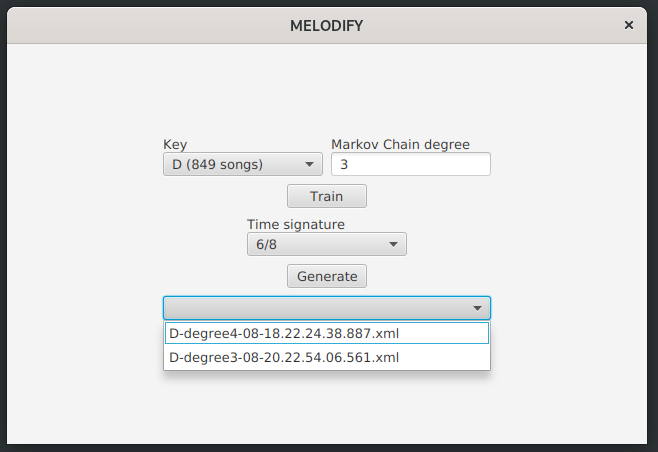
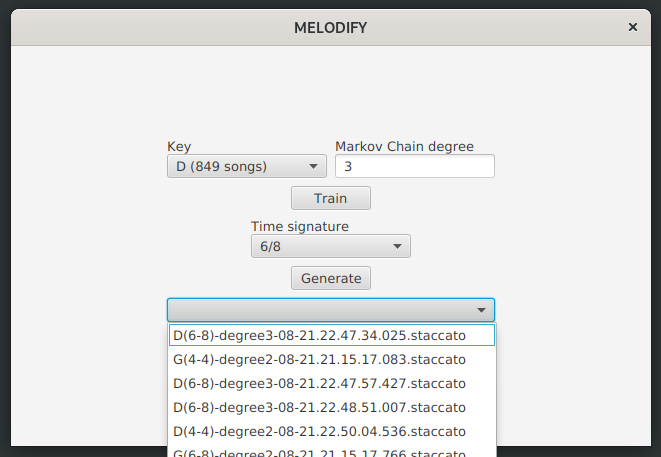
add test coverage, fix findings based on pitest

Changed region(s): [[0.0, 0.0, 1.0, 1.0], [0.2432, 0.3097, 0.4255, 0.4027]]

diff --git a/melodify/src/test/java/org/juhanir/services/GeneratorServiceTest.java b/melodify/src/test/java/org/juhanir/services/GeneratorServiceTest.java
@@ -147,9 +147,12 @@ public class GeneratorServiceTest {
       if (i < 12) {
         testTrie.insert(new int[] { i, 6 });
       }
-      // add every other note three times in the last octave
+      // add every even note three times in the last octave
       if (i >= Constants.NOTE_ARRAY_SIZE - 12 && i % 2 == 0) {
         testTrie.insert(new int[] { i, 6 });
+        testTrie.insert(new int[] { i, 6 });
+      } else if (i >= Constants.NOTE_ARRAY_SIZE - 12 && i % 2 != 0) {
+        // and every odd twice, should not override the first octave selection
         testTrie.insert(new int[] { i, 6 });
       }
     }
@@ -186,6 +189,47 @@ public class GeneratorServiceTest {
     assertEquals(Constants.NOTE_ARRAY_SIZE - 2, generator.getBaseNoteOfKey("A#m"));
     assertEquals(Constants.NOTE_ARRAY_SIZE - 2, generator.getBaseNoteOfKey("Bb"));
     assertEquals(Constants.NOTE_ARRAY_SIZE - 2, generator.getBaseNoteOfKey("Bbm"));
+  }
+
+  @Test
+  void toStaccatoStringGeneratesCorrectlyFourFour() {
+    Trie trie = new Trie();
+    GeneratorService generator = new GeneratorService(trie, new Random());
+    int[] melody = new int[] { 1, 2, 3, 4 };
+    String res = generator.toStaccatoString(melody, "4/4");
+    String expected = String.format("T%s TIME:4/4 25q 26q 27q 28q", Constants.PLAYBACK_TEMPO);
+    assertEquals(expected, res);
+  }
+
+  @Test
+  void toStaccatoStringGeneratesCorrectlySixEighths() {
+    Trie trie = new Trie();
+    GeneratorService generator = new GeneratorService(trie, new Random());
+    int[] melody = new int[] { 1, 2, 3, 4 };
+    String res = generator.toStaccatoString(melody, "6/8");
+    String expected = String.format("T%s TIME:6/8 25i*3:2 26i*3:2 27i*3:2 28i*3:2", Constants.PLAYBACK_TEMPO);
+    assertEquals(expected, res);
+  }
+
+  @Test
+  void getGenerationFileNamesProducesCorrectNames() {
+    Trie trie = new Trie();
+    GeneratorService generator = new GeneratorService(trie, new Random());
+    String[] res = generator.getGenerationFileNames("C", 2, "4/4");
+    assertTrue(res[0].matches("C\\(4-4\\)-degree2-[0-9]{2}-[0-9]{2}\\.[0-9]{2}\\.[0-9]{2}\\.[0-9]{2}\\.[0-9]{3}\\.staccato"));
+    assertTrue(res[1].matches("C\\(4-4\\)-degree2-[0-9]{2}-[0-9]{2}\\.[0-9]{2}\\.[0-9]{2}\\.[0-9]{2}\\.[0-9]{3}\\.MID"));
+  }
+
+  @Test
+  void resolvesRhythmCorrectly() {
+    Trie trie = new Trie();
+    GeneratorService generator = new GeneratorService(trie, new Random());
+    String res = generator.resolveRhythm("T120 TIME:4/4 1 2 3 4 5");
+    assertEquals(
+      String.format("T%s V9 [CLOSED_HI_HAT]q Rq [CLOSED_HI_HAT]q Rq [CLOSED_HI_HAT]q Rq", Constants.PLAYBACK_TEMPO), res);
+    res = generator.resolveRhythm("T120 TIME:6/8 1 2 3 4 5");
+    assertEquals(
+      String.format("T%s V9 [CLOSED_HI_HAT]i*3:2 Ri*3:2 Ri*3:2 [CLOSED_HI_HAT]i*3:2 Ri*3:2 Ri*3:2", Constants.PLAYBACK_TEMPO), res);
   }
 
   @Nested

diff --git a/melodify/src/main/java/org/juhanir/services/TrainingService.java b/melodify/src/main/java/org/juhanir/services/TrainingService.java
@@ -1,8 +1,10 @@
 package org.juhanir.services;
 
+import java.io.IOException;
 import java.io.InputStream;
 import java.util.List;
 import org.apache.logging.log4j.Logger;
+import org.audiveris.proxymusic.util.Marshalling.UnmarshallingException;
 import org.apache.logging.log4j.LogManager;
 import org.juhanir.domain.Trie;
 import org.juhanir.utils.FileIo;
@@ -45,11 +47,10 @@ public class TrainingService {
       try (InputStream is = this.fileIo.readFile(filePath)) {
         List<Integer> melodies = this.scoreParser.parse(is);
         for (int i = 0; i < melodies.size() - degree; i++) {
-          int[] trainingTuple =
-              melodies.subList(i, i + degree + 1).stream().mapToInt(Integer::intValue).toArray();
+          int[] trainingTuple = melodies.subList(i, i + degree + 1).stream().mapToInt(Integer::intValue).toArray();
           this.trie.insert(trainingTuple);
         }
-      } catch (Exception e) {
+      } catch (UnmarshallingException | IOException | IllegalArgumentException e) {
         trainingLogger.error("Failed to parse file " + filePath);
         trainingLogger.error(e);
       }

diff --git a/melodify/src/test/java/org/juhanir/domain/TrieTest.java b/melodify/src/test/java/org/juhanir/domain/TrieTest.java
@@ -84,7 +84,7 @@ class TrieTest {
   }
 
   @Test
-  void emptyPrefixSearchReturnsRoot() {
+  void emptyLookupReturnsRoot() {
     Trie trie = new Trie();
     trie.insert(new int[] { 1, 2 });
     trie.insert(new int[] { 2, 2 });
@@ -286,7 +286,9 @@ class TrieTest {
     trie.insert(new int[] { 5, 6, 7 });
     trie.insert(new int[] { 8, 6, 10 });
     trie.insert(new int[] { 5, 7, 11 });
-    int[] seq = trie.getMostCommonSequenceStartingWith(5, 0);
+    int[] seq = trie.getMostCommonSequenceStartingWith(5, 1);
+    assertArrayEquals(new int[] { 5 }, seq);
+    seq = trie.getMostCommonSequenceStartingWith(5, 0);
     assertArrayEquals(new int[] { 5 }, seq);
   }
 

diff --git a/melodify/src/main/java/org/juhanir/domain/Trie.java b/melodify/src/main/java/org/juhanir/domain/Trie.java
@@ -67,7 +67,7 @@ public class Trie {
     double sum = 0.0;
     for (int j = 0; j < children.length; j++) {
       if (children[j] != null) {
-        probabilities[j] = children[j].getCount() * 1.0 / childCount;
+        probabilities[j] = children[j].getCount() / (double) childCount;
         sum += probabilities[j];
       }
     }
@@ -96,7 +96,7 @@ public class Trie {
    * @return sequence
    */
   public int[] getMostCommonSequenceStartingWith(int startingNote, int length) {
-    if (length <= 1) {
+    if (length < 2) {
       return new int[] { startingNote };
     }
     int[] sequence = new int[length];

diff --git a/melodify/src/main/java/org/juhanir/services/GeneratorService.java b/melodify/src/main/java/org/juhanir/services/GeneratorService.java
@@ -85,7 +85,7 @@ public class GeneratorService {
     for (int i = initialPrefix.length; i < result.length; i++) {
       int[] generationPrefix = Arrays.copyOfRange(result, i - initialPrefix.length, i);
       int nextNote = this.predictNextNote(generationPrefix);
-      if (nextNote < 0) {
+      if (nextNote == -1) {
         generatorLogger.info(String.format("Could not continue generation of %s",
             Arrays.toString(generationPrefix)));
         return Arrays.copyOfRange(result, 0, i);

diff --git a/melodify/src/test/java/org/juhanir/services/TrainingServiceTest.java b/melodify/src/test/java/org/juhanir/services/TrainingServiceTest.java
@@ -44,6 +44,15 @@ public class TrainingServiceTest {
   }
 
   @Test
+  void trainWithParsingErrorDoesNotThrow() {
+    Trie trie = new Trie();
+    TrainingService service =
+        new TrainingService(new FileIo(), new ScoreParser(), trie);
+    service.trainWith(List.of("/not/a/real/path"), 1);
+    assertEquals(1, trie.size());
+  }
+
+  @Test
   void trieSizeIsCorrectForFirstDegree() {
     Trie trie = new Trie();
     TrainingService service =

diff --git a/melodify/src/test/java/org/juhanir/domain/TrieNodeTest.java b/melodify/src/test/java/org/juhanir/domain/TrieNodeTest.java
@@ -21,6 +21,14 @@ class TrieNodeTest {
   }
 
   @Test
+  void initiallyAllChildrenAreNull() {
+    TrieNode node = new TrieNode(5);
+    for (TrieNode kid : node.getChildren()) {
+      assertNull(kid);
+    }
+  }
+
+  @Test
   void canCreateNewTrieNodeWithValue() {
     TrieNode node = new TrieNode(5);
     assertEquals(5, node.getValue());

diff --git a/melodify/src/main/java/org/juhanir/domain/TrieNode.java b/melodify/src/main/java/org/juhanir/domain/TrieNode.java
@@ -21,9 +21,6 @@ public class TrieNode {
   public TrieNode(int value) {
     this.value = value;
     this.children = new TrieNode[Constants.NOTE_ARRAY_SIZE];
-    for (int i = 0; i < Constants.NOTE_ARRAY_SIZE; i++) {
-      this.children[i] = null;
-    }
     this.count = 0;
     this.childCount = 0;
   }

diff --git a/README.md b/README.md
@@ -55,7 +55,7 @@ After starting the application the training data is loaded and user can select a
 
 ![training](/docs/images/howto_train.png)
 
-After setting the parameters and training the model the generate button becomes enabled. Time signature selection is a small curiosity here for playback as there is also a rhythm when playing the generation in the app. Generated melodies will be written to file as MusicXML for playback in the app and also saved in MIDI format (without the rhythm).
+After setting the parameters and training the model the generate button becomes enabled. Time signature selection is a small curiosity here for playback as it adds a rhythm and controls whether the generation is quarter or eighth notes. Generated melodies will be written to file for playback in the app and also saved in MIDI format.
 
 ![generating](/docs/images/howto_generate.png)
 
